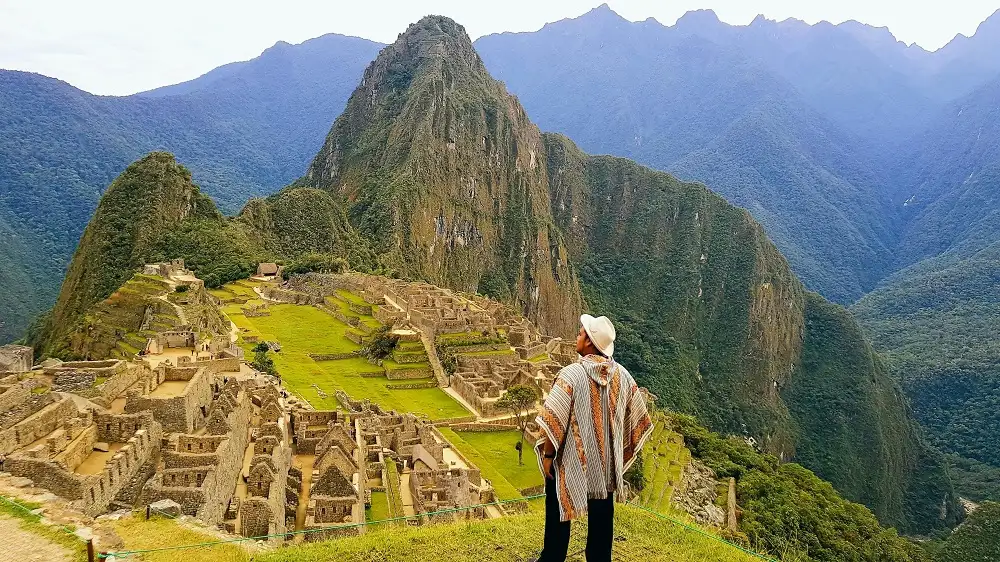
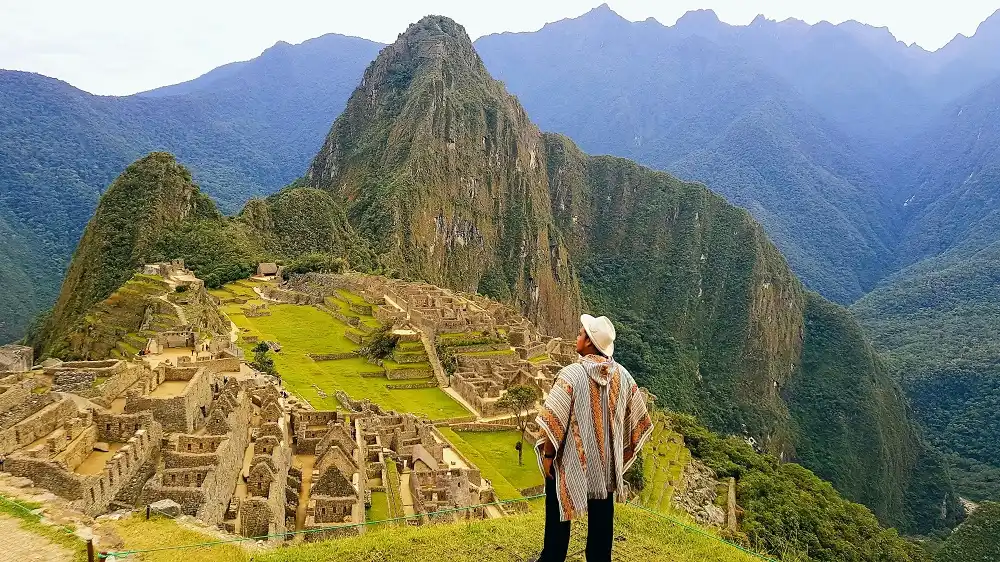
fix largets image to bring it down under 125KB

diff --git a/place.html b/place.html
@@ -27,7 +27,7 @@
                 <source media="(min-width: 501px) and (max-width: 1000px)" srcset="images/peru-machu-pichu-rishi-ramoutar-pexels-1000-562.webp">
                 <source media="(min-width: 41em) and (max-width: 500px)" srcset="images/peru-machu-pichu-rishi-ramoutar-pexels-500-281.webp">
                 <source media="(min-width: 1px) and (max-width: 40em)" srcset="images/peru-machu-pichu-rishi-ramoutar-pexels-250-140.webp">
-                <img  id="hero-image" class="hero-image" src="images/peru-machu-pichu-rishi-ramoutar-pexels-4000-2250.webp" alt="Machu Pichu, Peru" width="4000" height="2250">
+                <img  id="hero-image" class="hero-image" src="images/peru-machu-pichu-rishi-ramoutar-pexels-3000-1008.webp" alt="Machu Pichu, Peru" width="3000" height="1008">
             </picture>
         </div>
         <div id="data" class="card data">
